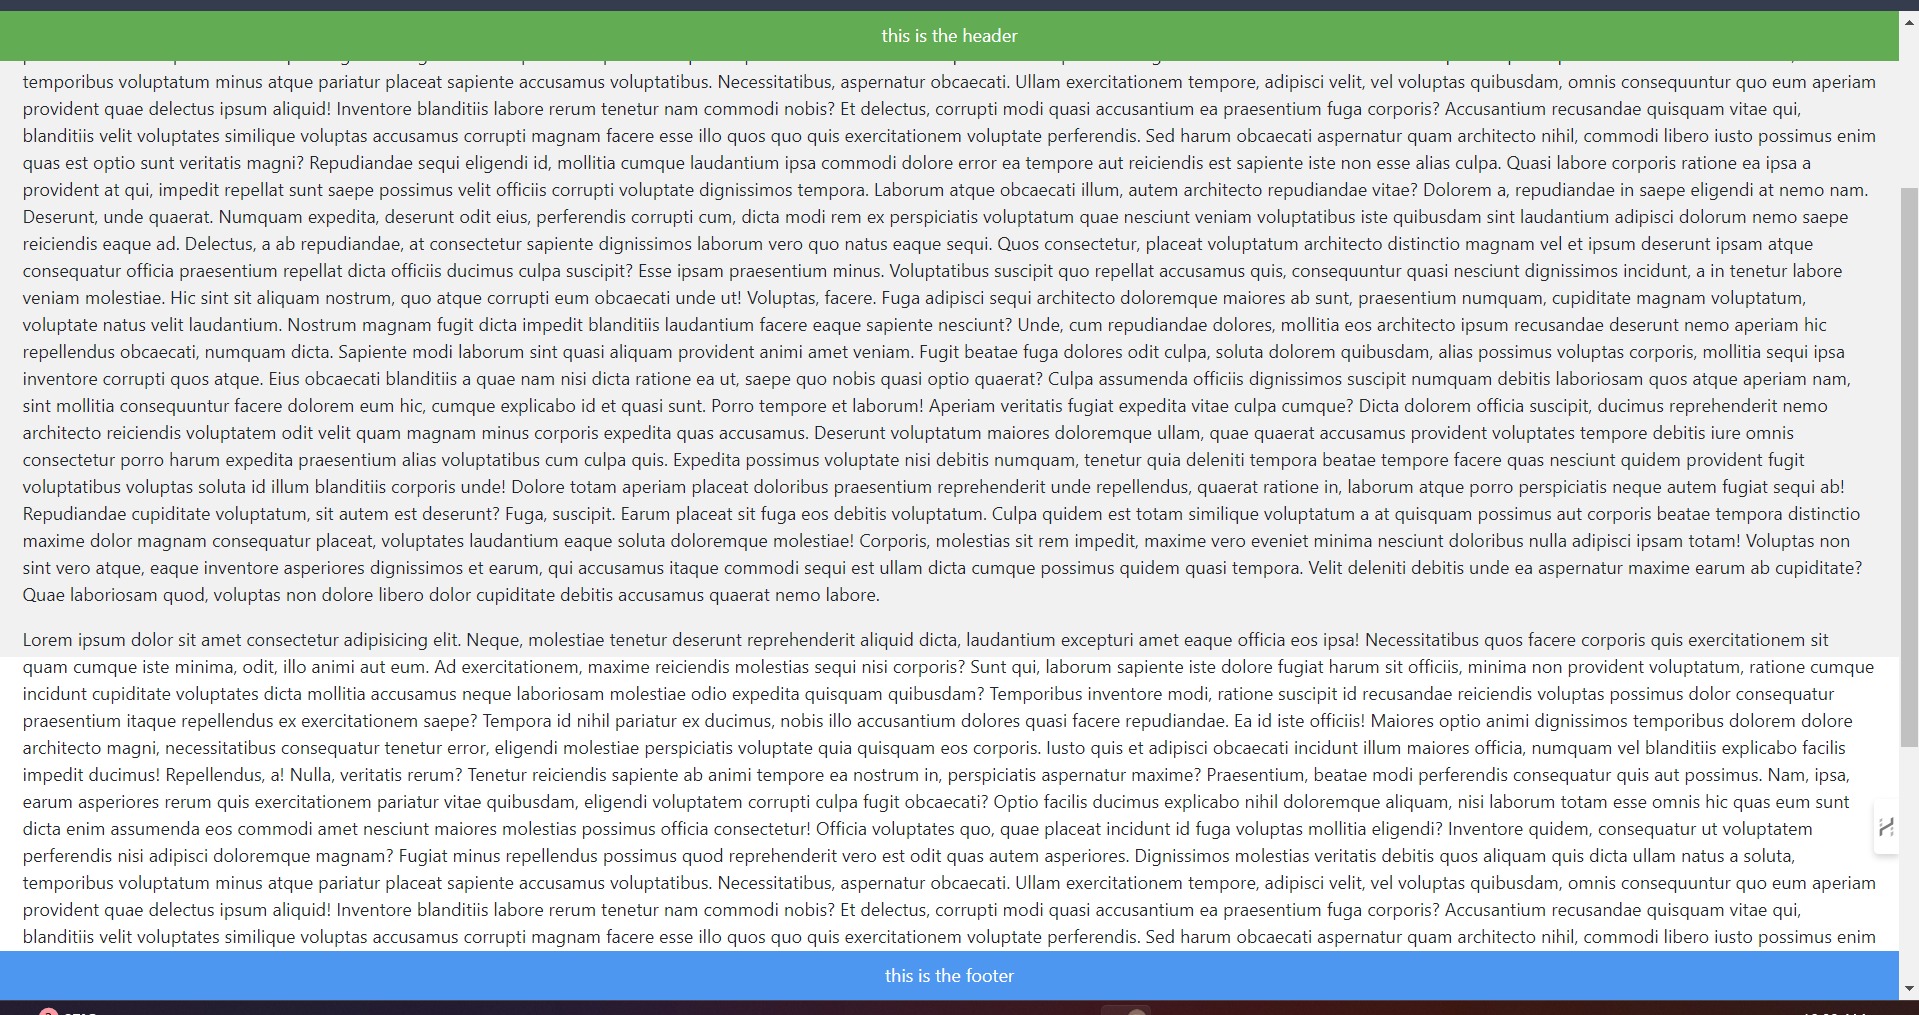
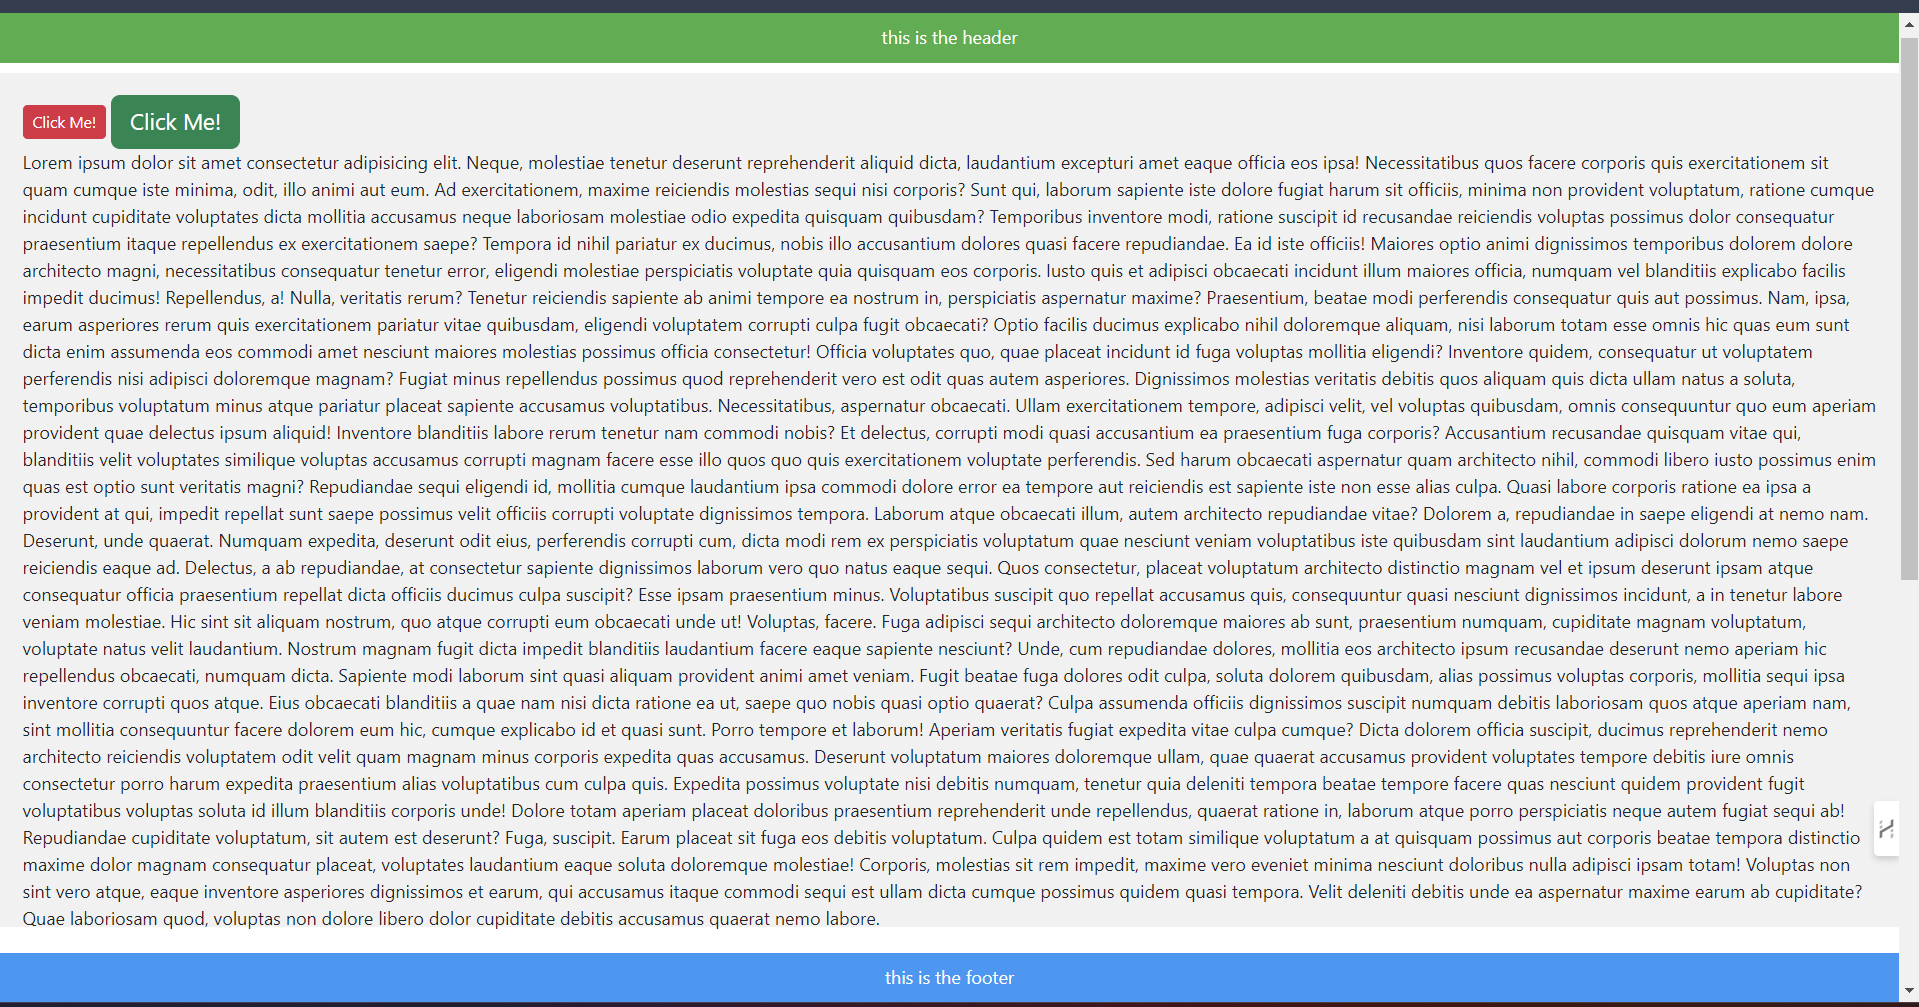
added buttons

diff --git a/21039.html b/21039.html
@@ -12,6 +12,8 @@
         <header>this is the header</header>
         </div>
     <div class="div2">
+        <button class="btn btn-danger btn-sm"> Click Me!</button>
+        <button class="btn btn-outline-success btn-lg"> Click Me!</button>
         <p class="wrapper">Lorem ipsum dolor sit amet consectetur adipisicing elit. Neque, molestiae tenetur deserunt reprehenderit aliquid dicta, laudantium excepturi amet eaque officia eos ipsa! Necessitatibus quos facere corporis quis exercitationem sit quam cumque iste minima, odit, illo animi aut eum. Ad exercitationem, maxime reiciendis molestias sequi nisi corporis? Sunt qui, laborum sapiente iste dolore fugiat harum sit officiis, minima non provident voluptatum, ratione cumque incidunt cupiditate voluptates dicta mollitia accusamus neque laboriosam molestiae odio expedita quisquam quibusdam? Temporibus inventore modi, ratione suscipit id recusandae reiciendis voluptas possimus dolor consequatur praesentium itaque repellendus ex exercitationem saepe? Tempora id nihil pariatur ex ducimus, nobis illo accusantium dolores quasi facere repudiandae. Ea id iste officiis! Maiores optio animi dignissimos temporibus dolorem dolore architecto magni, necessitatibus consequatur tenetur error, eligendi molestiae perspiciatis voluptate quia quisquam eos corporis. Iusto quis et adipisci obcaecati incidunt illum maiores officia, numquam vel blanditiis explicabo facilis impedit ducimus! Repellendus, a! Nulla, veritatis rerum? Tenetur reiciendis sapiente ab animi tempore ea nostrum in, perspiciatis aspernatur maxime? Praesentium, beatae modi perferendis consequatur quis aut possimus. Nam, ipsa, earum asperiores rerum quis exercitationem pariatur vitae quibusdam, eligendi voluptatem corrupti culpa fugit obcaecati? Optio facilis ducimus explicabo nihil doloremque aliquam, nisi laborum totam esse omnis hic quas eum sunt dicta enim assumenda eos commodi amet nesciunt maiores molestias possimus officia consectetur! Officia voluptates quo, quae placeat incidunt id fuga voluptas mollitia eligendi? Inventore quidem, consequatur ut voluptatem perferendis nisi adipisci doloremque magnam? Fugiat minus repellendus possimus quod reprehenderit vero est odit quas autem asperiores. Dignissimos molestias veritatis debitis quos aliquam quis dicta ullam natus a soluta, temporibus voluptatum minus atque pariatur placeat sapiente accusamus voluptatibus. Necessitatibus, aspernatur obcaecati. Ullam exercitationem tempore, adipisci velit, vel voluptas quibusdam, omnis consequuntur quo eum aperiam provident quae delectus ipsum aliquid! Inventore blanditiis labore rerum tenetur nam commodi nobis? Et delectus, corrupti modi quasi accusantium ea praesentium fuga corporis? Accusantium recusandae quisquam vitae qui, blanditiis velit voluptates similique voluptas accusamus corrupti magnam facere esse illo quos quo quis exercitationem voluptate perferendis. Sed harum obcaecati aspernatur quam architecto nihil, commodi libero iusto possimus enim quas est optio sunt veritatis magni? Repudiandae sequi eligendi id, mollitia cumque laudantium ipsa commodi dolore error ea tempore aut reiciendis est sapiente iste non esse alias culpa. Quasi labore corporis ratione ea ipsa a provident at qui, impedit repellat sunt saepe possimus velit officiis corrupti voluptate dignissimos tempora. Laborum atque obcaecati illum, autem architecto repudiandae vitae? Dolorem a, repudiandae in saepe eligendi at nemo nam. Deserunt, unde quaerat. Numquam expedita, deserunt odit eius, perferendis corrupti cum, dicta modi rem ex perspiciatis voluptatum quae nesciunt veniam voluptatibus iste quibusdam sint laudantium adipisci dolorum nemo saepe reiciendis eaque ad. Delectus, a ab repudiandae, at consectetur sapiente dignissimos laborum vero quo natus eaque sequi. Quos consectetur, placeat voluptatum architecto distinctio magnam vel et ipsum deserunt ipsam atque consequatur officia praesentium repellat dicta officiis ducimus culpa suscipit? Esse ipsam praesentium minus. Voluptatibus suscipit quo repellat accusamus quis, consequuntur quasi nesciunt dignissimos incidunt, a in tenetur labore veniam molestiae. Hic sint sit aliquam nostrum, quo atque corrupti eum obcaecati unde ut! Voluptas, facere. Fuga adipisci sequi architecto doloremque maiores ab sunt, praesentium numquam, cupiditate magnam voluptatum, voluptate natus velit laudantium. Nostrum magnam fugit dicta impedit blanditiis laudantium facere eaque sapiente nesciunt? Unde, cum repudiandae dolores, mollitia eos architecto ipsum recusandae deserunt nemo aperiam hic repellendus obcaecati, numquam dicta. Sapiente modi laborum sint quasi aliquam provident animi amet veniam. Fugit beatae fuga dolores odit culpa, soluta dolorem quibusdam, alias possimus voluptas corporis, mollitia sequi ipsa inventore corrupti quos atque. Eius obcaecati blanditiis a quae nam nisi dicta ratione ea ut, saepe quo nobis quasi optio quaerat? Culpa assumenda officiis dignissimos suscipit numquam debitis laboriosam quos atque aperiam nam, sint mollitia consequuntur facere dolorem eum hic, cumque explicabo id et quasi sunt. Porro tempore et laborum! Aperiam veritatis fugiat expedita vitae culpa cumque? Dicta dolorem officia suscipit, ducimus reprehenderit nemo architecto reiciendis voluptatem odit velit quam magnam minus corporis expedita quas accusamus. Deserunt voluptatum maiores doloremque ullam, quae quaerat accusamus provident voluptates tempore debitis iure omnis consectetur porro harum expedita praesentium alias voluptatibus cum culpa quis. Expedita possimus voluptate nisi debitis numquam, tenetur quia deleniti tempora beatae tempore facere quas nesciunt quidem provident fugit voluptatibus voluptas soluta id illum blanditiis corporis unde! Dolore totam aperiam placeat doloribus praesentium reprehenderit unde repellendus, quaerat ratione in, laborum atque porro perspiciatis neque autem fugiat sequi ab! Repudiandae cupiditate voluptatum, sit autem est deserunt? Fuga, suscipit. Earum placeat sit fuga eos debitis voluptatum. Culpa quidem est totam similique voluptatum a at quisquam possimus aut corporis beatae tempora distinctio maxime dolor magnam consequatur placeat, voluptates laudantium eaque soluta doloremque molestiae! Corporis, molestias sit rem impedit, maxime vero eveniet minima nesciunt doloribus nulla adipisci ipsam totam! Voluptas non sint vero atque, eaque inventore asperiores dignissimos et earum, qui accusamus itaque commodi sequi est ullam dicta cumque possimus quidem quasi tempora. Velit deleniti debitis unde ea aspernatur maxime earum ab cupiditate? Quae laboriosam quod, voluptas non dolore libero dolor cupiditate debitis accusamus quaerat nemo labore.</p>    
         <p class="wrapper">Lorem ipsum dolor sit amet consectetur adipisicing elit. Neque, molestiae tenetur deserunt reprehenderit aliquid dicta, laudantium excepturi amet eaque officia eos ipsa! Necessitatibus quos facere corporis quis exercitationem sit quam cumque iste minima, odit, illo animi aut eum. Ad exercitationem, maxime reiciendis molestias sequi nisi corporis? Sunt qui, laborum sapiente iste dolore fugiat harum sit officiis, minima non provident voluptatum, ratione cumque incidunt cupiditate voluptates dicta mollitia accusamus neque laboriosam molestiae odio expedita quisquam quibusdam? Temporibus inventore modi, ratione suscipit id recusandae reiciendis voluptas possimus dolor consequatur praesentium itaque repellendus ex exercitationem saepe? Tempora id nihil pariatur ex ducimus, nobis illo accusantium dolores quasi facere repudiandae. Ea id iste officiis! Maiores optio animi dignissimos temporibus dolorem dolore architecto magni, necessitatibus consequatur tenetur error, eligendi molestiae perspiciatis voluptate quia quisquam eos corporis. Iusto quis et adipisci obcaecati incidunt illum maiores officia, numquam vel blanditiis explicabo facilis impedit ducimus! Repellendus, a! Nulla, veritatis rerum? Tenetur reiciendis sapiente ab animi tempore ea nostrum in, perspiciatis aspernatur maxime? Praesentium, beatae modi perferendis consequatur quis aut possimus. Nam, ipsa, earum asperiores rerum quis exercitationem pariatur vitae quibusdam, eligendi voluptatem corrupti culpa fugit obcaecati? Optio facilis ducimus explicabo nihil doloremque aliquam, nisi laborum totam esse omnis hic quas eum sunt dicta enim assumenda eos commodi amet nesciunt maiores molestias possimus officia consectetur! Officia voluptates quo, quae placeat incidunt id fuga voluptas mollitia eligendi? Inventore quidem, consequatur ut voluptatem perferendis nisi adipisci doloremque magnam? Fugiat minus repellendus possimus quod reprehenderit vero est odit quas autem asperiores. Dignissimos molestias veritatis debitis quos aliquam quis dicta ullam natus a soluta, temporibus voluptatum minus atque pariatur placeat sapiente accusamus voluptatibus. Necessitatibus, aspernatur obcaecati. Ullam exercitationem tempore, adipisci velit, vel voluptas quibusdam, omnis consequuntur quo eum aperiam provident quae delectus ipsum aliquid! Inventore blanditiis labore rerum tenetur nam commodi nobis? Et delectus, corrupti modi quasi accusantium ea praesentium fuga corporis? Accusantium recusandae quisquam vitae qui, blanditiis velit voluptates similique voluptas accusamus corrupti magnam facere esse illo quos quo quis exercitationem voluptate perferendis. Sed harum obcaecati aspernatur quam architecto nihil, commodi libero iusto possimus enim quas est optio sunt veritatis magni? Repudiandae sequi eligendi id, mollitia cumque laudantium ipsa commodi dolore error ea tempore aut reiciendis est sapiente iste non esse alias culpa. Quasi labore corporis ratione ea ipsa a provident at qui, impedit repellat sunt saepe possimus velit officiis corrupti voluptate dignissimos tempora. Laborum atque obcaecati illum, autem architecto repudiandae vitae? Dolorem a, repudiandae in saepe eligendi at nemo nam. Deserunt, unde quaerat. Numquam expedita, deserunt odit eius, perferendis corrupti cum, dicta modi rem ex perspiciatis voluptatum quae nesciunt veniam voluptatibus iste quibusdam sint laudantium adipisci dolorum nemo saepe reiciendis eaque ad. Delectus, a ab repudiandae, at consectetur sapiente dignissimos laborum vero quo natus eaque sequi. Quos consectetur, placeat voluptatum architecto distinctio magnam vel et ipsum deserunt ipsam atque consequatur officia praesentium repellat dicta officiis ducimus culpa suscipit? Esse ipsam praesentium minus. Voluptatibus suscipit quo repellat accusamus quis, consequuntur quasi nesciunt dignissimos incidunt, a in tenetur labore veniam molestiae. Hic sint sit aliquam nostrum, quo atque corrupti eum obcaecati unde ut! Voluptas, facere. Fuga adipisci sequi architecto doloremque maiores ab sunt, praesentium numquam, cupiditate magnam voluptatum, voluptate natus velit laudantium. Nostrum magnam fugit dicta impedit blanditiis laudantium facere eaque sapiente nesciunt? Unde, cum repudiandae dolores, mollitia eos architecto ipsum recusandae deserunt nemo aperiam hic repellendus obcaecati, numquam dicta. Sapiente modi laborum sint quasi aliquam provident animi amet veniam. Fugit beatae fuga dolores odit culpa, soluta dolorem quibusdam, alias possimus voluptas corporis, mollitia sequi ipsa inventore corrupti quos atque. Eius obcaecati blanditiis a quae nam nisi dicta ratione ea ut, saepe quo nobis quasi optio quaerat? Culpa assumenda officiis dignissimos suscipit numquam debitis laboriosam quos atque aperiam nam, sint mollitia consequuntur facere dolorem eum hic, cumque explicabo id et quasi sunt. Porro tempore et laborum! Aperiam veritatis fugiat expedita vitae culpa cumque? Dicta dolorem officia suscipit, ducimus reprehenderit nemo architecto reiciendis voluptatem odit velit quam magnam minus corporis expedita quas accusamus. Deserunt voluptatum maiores doloremque ullam, quae quaerat accusamus provident voluptates tempore debitis iure omnis consectetur porro harum expedita praesentium alias voluptatibus cum culpa quis. Expedita possimus voluptate nisi debitis numquam, tenetur quia deleniti tempora beatae tempore facere quas nesciunt quidem provident fugit voluptatibus voluptas soluta id illum blanditiis corporis unde! Dolore totam aperiam placeat doloribus praesentium reprehenderit unde repellendus, quaerat ratione in, laborum atque porro perspiciatis neque autem fugiat sequi ab! Repudiandae cupiditate voluptatum, sit autem est deserunt? Fuga, suscipit. Earum placeat sit fuga eos debitis voluptatum. Culpa quidem est totam similique voluptatum a at quisquam possimus aut corporis beatae tempora distinctio maxime dolor magnam consequatur placeat, voluptates laudantium eaque soluta doloremque molestiae! Corporis, molestias sit rem impedit, maxime vero eveniet minima nesciunt doloribus nulla adipisci ipsam totam! Voluptas non sint vero atque, eaque inventore asperiores dignissimos et earum, qui accusamus itaque commodi sequi est ullam dicta cumque possimus quidem quasi tempora. Velit deleniti debitis unde ea aspernatur maxime earum ab cupiditate? Quae laboriosam quod, voluptas non dolore libero dolor cupiditate debitis accusamus quaerat nemo labore.</p>    
     </div>
